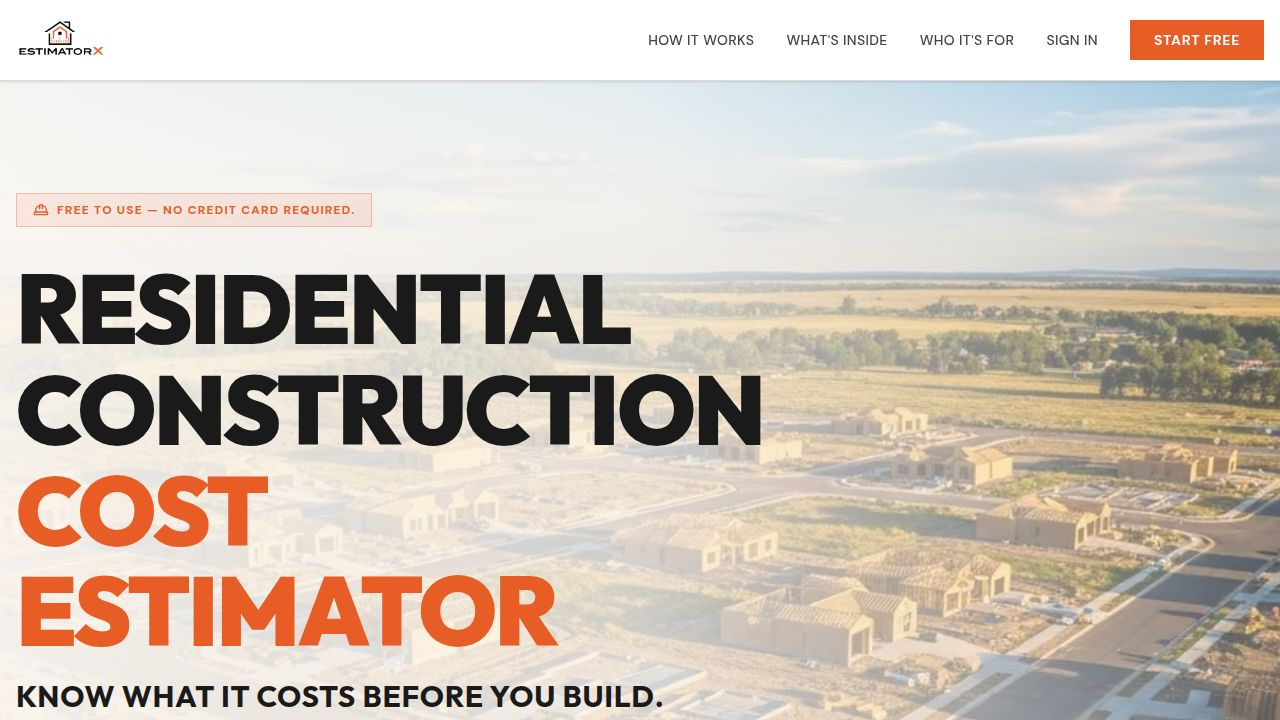
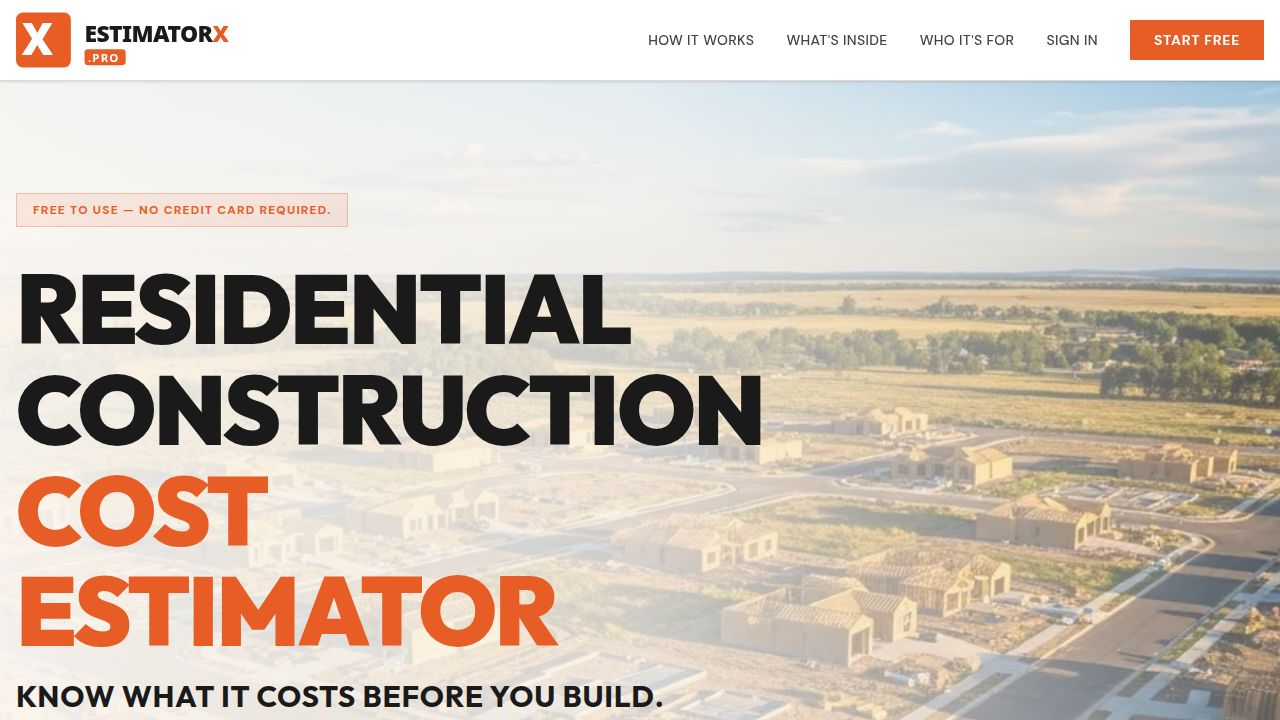
Add option for 2x6 precut studs with 9-foot ceiling height
Adds a new "2x6-16-9" stud size option to the estimator, automatically setting the ceiling height to 9 feet and updating material labels and pricing for precut studs.

Replit-Commit-Author: Agent
Replit-Commit-Session-Id: 35fd20d4-bce7-4242-9382-c4f480dcea7c
Replit-Commit-Checkpoint-Type: full_checkpoint
Replit-Commit-Event-Id: cb64f1aa-5d06-4766-a924-9d74af44319b
Replit-Commit-Screenshot-Url: https://storage.googleapis.com/screenshot-production-us-central1/ff66d511-2eab-496f-80e5-bc8b0cd5845d/35fd20d4-bce7-4242-9382-c4f480dcea7c/gKmnDC1
Replit-Helium-Checkpoint-Created: true

Changed region(s): [[0.0, 0.0, 0.1875, 0.0917], [0.0312, 0.275, 0.2812, 0.3056]]

diff --git a/artifacts/estimatorx/src/pages/Estimator.tsx b/artifacts/estimatorx/src/pages/Estimator.tsx
@@ -1948,7 +1948,7 @@ function FoundationTab() {
 /* ─────────────────────────────────────────────
    WALL TAB
 ───────────────────────────────────────────── */
-type StudSize = "2x4-16" | "2x6-16" | "2x6-24";
+type StudSize = "2x4-16" | "2x6-16" | "2x6-24" | "2x6-16-9";
 interface WallInputs {
   linearFeet: string; ceilingHeight: string; studSize: StudSize;
   exteriorSheathing: boolean; insulation: boolean; drywall: boolean;
@@ -1977,15 +1977,16 @@ interface WallInputs {
 }
 
 const STUD_CONFIG: Record<StudSize, { studLabel: string; plateLabel: string; studPrice: number; platePrice: number; ocSpacing: number; insulLabel: string; insulPrice: number }> = {
-  "2x4-16": { studLabel: "2×4×8 Studs (16\" OC)", plateLabel: "2×4×16 Plates (3 per run)", studPrice: 5.48, platePrice: 10.97, ocSpacing: 1.333, insulLabel: "R-13 Batt Insulation", insulPrice: 0.55 },
-  "2x6-16": { studLabel: "2×6×8 Studs (16\" OC)", plateLabel: "2×6×16 Plates (3 per run)", studPrice: 8.98, platePrice: 17.98, ocSpacing: 1.333, insulLabel: "R-21 Batt Insulation", insulPrice: 0.82 },
-  "2x6-24": { studLabel: "2×6×8 Studs (24\" OC)", plateLabel: "2×6×16 Plates (3 per run)", studPrice: 8.98, platePrice: 17.98, ocSpacing: 2.0,   insulLabel: "R-21 Batt Insulation", insulPrice: 0.82 },
+  "2x4-16":   { studLabel: "2×4×8 Studs (16\" OC)",        plateLabel: "2×4×16 Plates (3 per run)", studPrice: 5.48,  platePrice: 10.97, ocSpacing: 1.333, insulLabel: "R-13 Batt Insulation", insulPrice: 0.55 },
+  "2x6-16":   { studLabel: "2×6×8 Studs (16\" OC)",        plateLabel: "2×6×16 Plates (3 per run)", studPrice: 8.98,  platePrice: 17.98, ocSpacing: 1.333, insulLabel: "R-21 Batt Insulation", insulPrice: 0.82 },
+  "2x6-24":   { studLabel: "2×6×8 Studs (24\" OC)",        plateLabel: "2×6×16 Plates (3 per run)", studPrice: 8.98,  platePrice: 17.98, ocSpacing: 2.0,   insulLabel: "R-21 Batt Insulation", insulPrice: 0.82 },
+  "2x6-16-9": { studLabel: "2×6×104⅝\" Studs (16\" OC)",  plateLabel: "2×6×16 Plates (3 per run)", studPrice: 10.48, platePrice: 17.98, ocSpacing: 1.333, insulLabel: "R-21 Batt Insulation", insulPrice: 0.82 },
 };
 
 function migrateStudSize(v: unknown): StudSize {
   if (v === "2x4") return "2x4-16";
   if (v === "2x6") return "2x6-24";
-  if (v === "2x4-16" || v === "2x6-16" || v === "2x6-24") return v;
+  if (v === "2x4-16" || v === "2x6-16" || v === "2x6-24" || v === "2x6-16-9") return v;
   return "2x4-16";
 }
 
@@ -2337,16 +2338,20 @@ function WallTab() {
             </select>
           </Field>
           <Field label="Stud Size &amp; Spacing" note="2×6 uses R-21 insulation regardless of spacing">
-            <select value={inputs.studSize} onChange={e => setInputs(p => ({ ...p, studSize: e.target.value as StudSize }))}
+            <select value={inputs.studSize} onChange={e => {
+                const v = e.target.value as StudSize;
+                setInputs(p => ({ ...p, studSize: v, ...(v === "2x6-16-9" ? { ceilingHeight: "9" } : {}) }));
+              }}
               className="w-full bg-[#FAF8F5] border border-[#DDD8D0] px-4 py-2.5 text-[#1A1A1A] focus:outline-none focus:border-[#E85D26] transition-colors">
               <option value="2x4-16">2×4 @ 16″ OC</option>
               <option value="2x6-16">2×6 @ 16″ OC</option>
               <option value="2x6-24">2×6 @ 24″ OC</option>
+              <option value="2x6-16-9">2×6 @ 16″ OC — 9&apos; Precut (104⅝″)</option>
             </select>
           </Field>
           <div className="flex flex-col gap-4">
             <Toggle checked={inputs.exteriorSheathing} onChange={v => setInputs(p => ({ ...p, exteriorSheathing: v }))} label="Advantech Exterior Sheathing" />
-            <Toggle checked={inputs.insulation} onChange={v => setInputs(p => ({ ...p, insulation: v }))} label={(inputs.studSize === "2x6-16" || inputs.studSize === "2x6-24") ? "Insulation (R-21 Batts)" : "Insulation (R-13 Batts)"} />
+            <Toggle checked={inputs.insulation} onChange={v => setInputs(p => ({ ...p, insulation: v }))} label={(inputs.studSize === "2x6-16" || inputs.studSize === "2x6-24" || inputs.studSize === "2x6-16-9") ? "Insulation (R-21 Batts)" : "Insulation (R-13 Batts)"} />
             <Toggle checked={inputs.drywall} onChange={v => setInputs(p => ({ ...p, drywall: v }))} label='Drywall — Exterior Walls (½", one side)' />
           </div>
         </div>